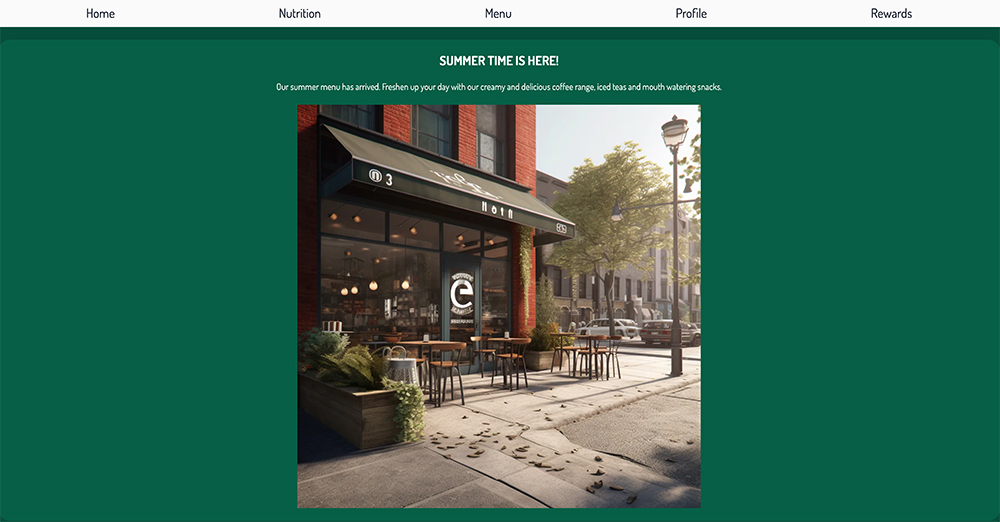
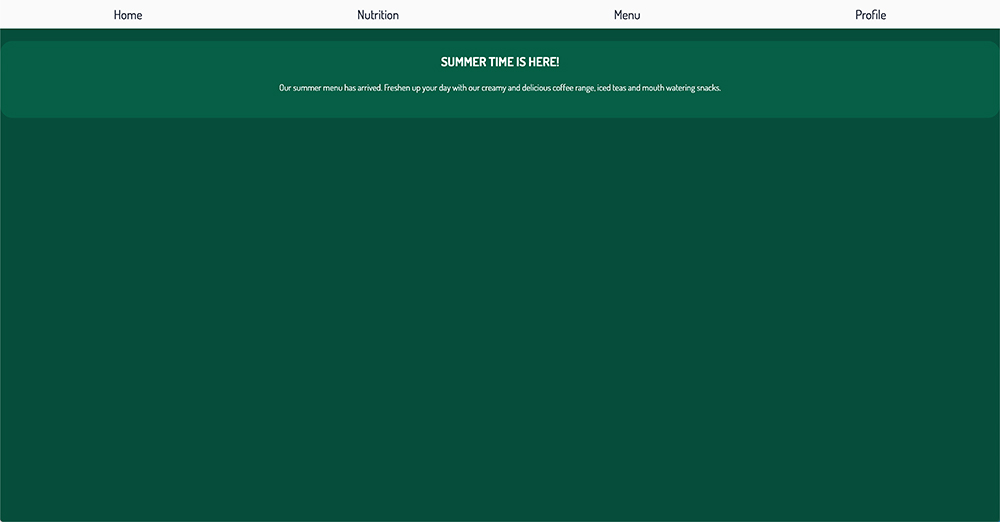
optimised codebase and reduced code and files

diff --git a/src/app/account/menu/page.js b/src/app/account/menu/page.js
@@ -6,7 +6,6 @@ import withApollo from '../../utils/withApollo';
 import { styled, ThemeProvider } from 'styled-components';
 import GlobalStyle from '../../components/GlobalStyles';
 import MainMenu from '../../components/MainMenu';
-import Image from 'next/image';
 
 const theme = {
   colors: {
@@ -31,11 +30,7 @@ const LoginStatus = styled.p`
 
 const SignInOutButton = styled.button`
   color: #ffffff;
-  border: none;
-  padding: 1rem;
-  text-transform: uppercase;
-  border-radius: 1rem;
-  background: rgb(2 44 34);
+  padding: 0.5rem;
   cursor: pointer;
   margin: 2rem 0 2rem 0;
 `;
@@ -48,20 +43,6 @@ const ContentContainer = styled.div`
 const Content = styled.p`
   color: #ffffff;
   font-size: 1.4rem;
-`;
-
-const NutritionTable = styled.table`
-  border: 0.1rem solid black;
-  background: rgb(6 95 70);
-  color: #ffffff;
-`;
-
-const NutritionTableTr = styled.tr``;
-
-const NutritionTableTd = styled.td`
-  border: 0.1rem solid black;
-  background: rgb(6 95 70);
-  padding: 1rem;
 `;
 
 const ItemContainer = styled.div`
@@ -104,66 +85,12 @@ const Menu = () => {
                 {data.menu.map((items) => (
                   <ContentContainer key={items.id}>
                     <ItemContainer>
-                      <Image
-                        src={items.img}
-                        alt={items.name}
-                        width={200}
-                        height={200}
-                      />
                       <ItemDescription>
                         <Content>{items.name}</Content>
                         <Content>{items.foodType}</Content>
                         <Content>{items.description}</Content>
                       </ItemDescription>
                     </ItemContainer>
-                    <ContentContainer>
-                      <ContentContainer>
-                        {items.nutrition.map((stats) => (
-                          <NutritionTable>
-                            <NutritionTableTr>
-                              <NutritionTableTd>
-                                Energy: {stats.energy}
-                              </NutritionTableTd>
-                            </NutritionTableTr>
-                            <NutritionTableTr>
-                              <NutritionTableTd>
-                                Fat: {stats.fat}
-                              </NutritionTableTd>
-                            </NutritionTableTr>
-                            <NutritionTableTr>
-                              <NutritionTableTd>
-                                Saturated Fat: {stats.saturatedFat}
-                              </NutritionTableTd>
-                            </NutritionTableTr>
-                            <NutritionTableTr>
-                              <NutritionTableTd>
-                                Carbohydrates: {stats.carbohydrates}
-                              </NutritionTableTd>
-                            </NutritionTableTr>
-                            <NutritionTableTr>
-                              <NutritionTableTd>
-                                Sugar: {stats.sugar}
-                              </NutritionTableTd>
-                            </NutritionTableTr>
-                            <NutritionTableTr>
-                              <NutritionTableTd>
-                                Fibre: {stats.fibre}
-                              </NutritionTableTd>
-                            </NutritionTableTr>
-                            <NutritionTableTr>
-                              <NutritionTableTd>
-                                Protien: {stats.protien}
-                              </NutritionTableTd>
-                            </NutritionTableTr>
-                            <NutritionTableTr>
-                              <NutritionTableTd>
-                                Salt: {stats.salt}
-                              </NutritionTableTd>
-                            </NutritionTableTr>
-                          </NutritionTable>
-                        ))}
-                      </ContentContainer>
-                    </ContentContainer>
                   </ContentContainer>
                 ))}
               </ContentContainer>

diff --git a/data/profile.js b/data/profile.js
@@ -1,19 +1,6 @@
 export const profile = [
   {
     id: '1',
-    name: 'Jordan Brewer',
-    location: 'Earth',
-    bio: `Born and raised on Earth, my name is Jordan Brewer and I am a passionate coffee aficionado with a heart as warm as a freshly brewed cup of java. My love for coffee transcends the simple act of drinking; it weaves into my lifestyle, transforming it into a captivating journey of bean discovery, aroma exploration, and flavour awakening.
-  
-      My fascination with coffee started at a young age, as I found myself captivated by the rich, aromatic scent wafting from my parents' morning brew. My curiosity led me to learn the art of coffee-making, from selecting the perfect beans to the delicate art of brewing. Years later, my passion developed into a profession when I decided to ditch the corporate job and step into the world of artisanal coffee.
-      
-      Now, I am a certified barista and coffee taster, known for my keen ability to discern subtle flavour profiles and create bespoke blends. But my coffee enthusiasm doesn't stop at the coffee shop door. I am also a proficient home barista, turning my kitchen into a mini cafe where I experiment with different brewing methods and coffee recipes.
-      
-      In addition to my hands-on experience, I am an avid traveler, journeying to coffee plantations around the world to understand the roots of their beloved beverage. I have traversed the lush landscapes of Ethiopia, Colombia, and Costa Rica, immersing myself in local cultures and gaining a deep appreciation for the laborious process of coffee production.
-      
-      A regular contributor to coffee blogs and magazines, my writing reflects the profound knowledge and love for coffee. My articles focus on everything coffee-related, from the history of the drink to in-depth guides on brewing techniques, always aiming to educate and inspire fellow coffee lovers.
-      
-      I am not just a coffee lover, but a coffee ambassador, always ready to share a cup and a story. I believe that coffee is more than a drink; it's a connection, a conversation starter, a bond shared over the warmth of a mug. For me, coffee is a way of life, and I wouldn't have it any other way.`,
-    img: '/../public/barista.jpg',
+    bio: `Born and raised in London, my name is Jordan Brewer and I am a passionate coffee aficionado with a heart as warm as a freshly brewed cup of java.`,
   },
 ];

diff --git a/data/menu.js b/data/menu.js
@@ -3,80 +3,12 @@ export const menu = [
     id: '1',
     foodType: 'Drinks',
     name: 'Latte',
-    description:
-      'Steamed milk and our special mix of espresso create a smooth and creamy coffee.',
-    img: '/../public/latte.jpg',
-    nutrition: [
-      {
-        energy: '343 KJ/82 Kcal',
-        fat: '2.5g',
-        saturatedFat: '2.4g',
-        carbohydrates: '7g',
-        sugar: '5.9g',
-        fibre: '0.1g',
-        protien: '7g',
-        salt: '0.3g',
-      },
-    ],
+    description: 'Steamed milk',
   },
   {
     id: '2',
     foodType: 'Drinks',
     name: 'Cappuccino',
-    description:
-      'Espresso that has been expertly extracted is topped with opulent milk froth and dusted with chocolate.',
-    img: '/../public/cappuccino.jpg',
-    nutrition: [
-      {
-        energy: '274 KJ/65 Kcal',
-        fat: '2.2g',
-        saturatedFat: '2.1g',
-        carbohydrates: '5g',
-        sugar: '4.5g',
-        fibre: '0.1g',
-        protien: '4.3g',
-        salt: '0.1g',
-      },
-    ],
-  },
-  {
-    id: '3',
-    foodType: 'Food',
-    name: 'Chicken Caesar Wrap',
-    description:
-      'Wrapped in a simple bar-marked wrap with tangy creamy ranch style caesar mayonnaise are smoked and seared chicken breast, and lettuce leaf.',
-    img: '/../public/chicken-caesar-wrap.jpg',
-    nutrition: [
-      {
-        energy: '1920 KJ/457 Kcal ',
-        fat: '20g',
-        saturatedFat: '6.1g',
-        carbohydrates: '50g',
-        sugar: '4.9g',
-        fibre: '1.8g',
-        protien: '20g',
-        salt: '1.6g',
-      },
-    ],
-  },
-  {
-    id: '4',
-    foodType: 'Food',
-    name: 'Seven Cheese Toastie',
-    description:
-      'Sourdough with a blend of 7 cheeses, tangy sauce, and American-style mustard inside of our iconic cheese-topped sandwich.',
-    img: '/../public/seven-cheese-toastie.jpg',
-    nutrition: [
-      {
-        energy: '1451 KJ/345 Kcal',
-        fat: '15g',
-        saturatedFat: '7.1g',
-        carbohydrates: '54g',
-        sugar: '3.9g',
-        fibre: '2.8g',
-        protien: '19g',
-        salt: '1.7g',
-      },
-    ],
+    description: 'Espresso',
   },
 ];

diff --git a/src/app/account/profile/page.js b/src/app/account/profile/page.js
@@ -6,8 +6,6 @@ import withApollo from '../../utils/withApollo';
 import { styled, ThemeProvider } from 'styled-components';
 import GlobalStyle from '../../components/GlobalStyles';
 import MainMenu from '../../components/MainMenu';
-import Image from 'next/image';
-import Barista from '../../../../public/barista.jpg';
 
 const theme = {
   colors: {
@@ -32,11 +30,7 @@ const LoginStatus = styled.p`
 
 const SignInOutButton = styled.button`
   color: #ffffff;
-  border: none;
-  padding: 1rem;
-  text-transform: uppercase;
-  border-radius: 1rem;
-  background: rgb(2 44 34);
+  padding: 0.5rem;
   cursor: pointer;
   margin: 2rem 0 2rem 0;
 `;
@@ -80,7 +74,6 @@ const ClientProtectPage = () => {
               <ContentContainer>
                 {data.profile.map((account) => (
                   <ContentContainer key={account.id}>
-                    <Image src={Barista} alt="Barista" width={400} />
                     <Content>{account.bio}</Content>
                   </ContentContainer>
                 ))}

diff --git a/src/app/page.js b/src/app/page.js
@@ -1,8 +1,6 @@
 'use client';
 import { styled, ThemeProvider } from 'styled-components';
 import GlobalStyle from '../../src/app/components/GlobalStyles';
-import Image from 'next/image';
-import CoffeeShop from '../../public/coffee-shop.jpg';
 import MainMenu from './components/MainMenu';
 
 const theme = {
@@ -49,7 +47,6 @@ export default function Home() {
               Our summer menu has arrived. Freshen up your day with our creamy
               and delicious coffee range, iced teas and mouth watering snacks.
             </CoverIntro>
-            <Image src={CoffeeShop} alt="Coffee Shop" />
           </CoverImage>
         </MainContainer>
       </ThemeProvider>

diff --git a/src/app/graphql/route.js b/src/app/graphql/route.js
@@ -12,27 +12,11 @@ const typeDefs = gql`
     foodType: String
     name: String
     description: String
-    img: String
-    nutrition: [Nutrition]
-  }
-
-  type Nutrition {
-    energy: String
-    fat: String
-    saturatedFat: String
-    carbohydrates: String
-    sugar: String
-    fibre: String
-    protien: String
-    salt: String
   }
 
   type Profile {
     id: String
-    name: String
-    location: String
     bio: String
-    img: String
   }
 
   type Query {

diff --git a/next.config.js b/next.config.js
@@ -1,14 +1,8 @@
 /** @type {import('next').NextConfig} */
 const nextConfig = {
   compiler: {
-    reactStrictMode: true,
     styledComponents: true,
   },
 };
 
-module.exports = {
-  nextConfig,
-  experimental: {
-    appDir: true,
-  },
-};
+module.exports = nextConfig;

diff --git a/src/app/components/MainMenu.js b/src/app/components/MainMenu.js
@@ -19,7 +19,6 @@ export default function MainMenu() {
       <Link href="/nutrition">Nutrition</Link>
       <Link href="/account/menu">Menu</Link>
       <Link href="/account/profile">Profile</Link>
-      <Link href="/rewards">Rewards</Link>
     </MainNavigation>
   );
 }

diff --git a/src/app/queries/clientQueries.js b/src/app/queries/clientQueries.js
@@ -7,17 +7,6 @@ const GET_MENU = gql`
       name
       foodType
       description
-      img
-      nutrition {
-        carbohydrates
-        energy
-        fat
-        fibre
-        protien
-        salt
-        saturatedFat
-        sugar
-      }
     }
   }
 `;
